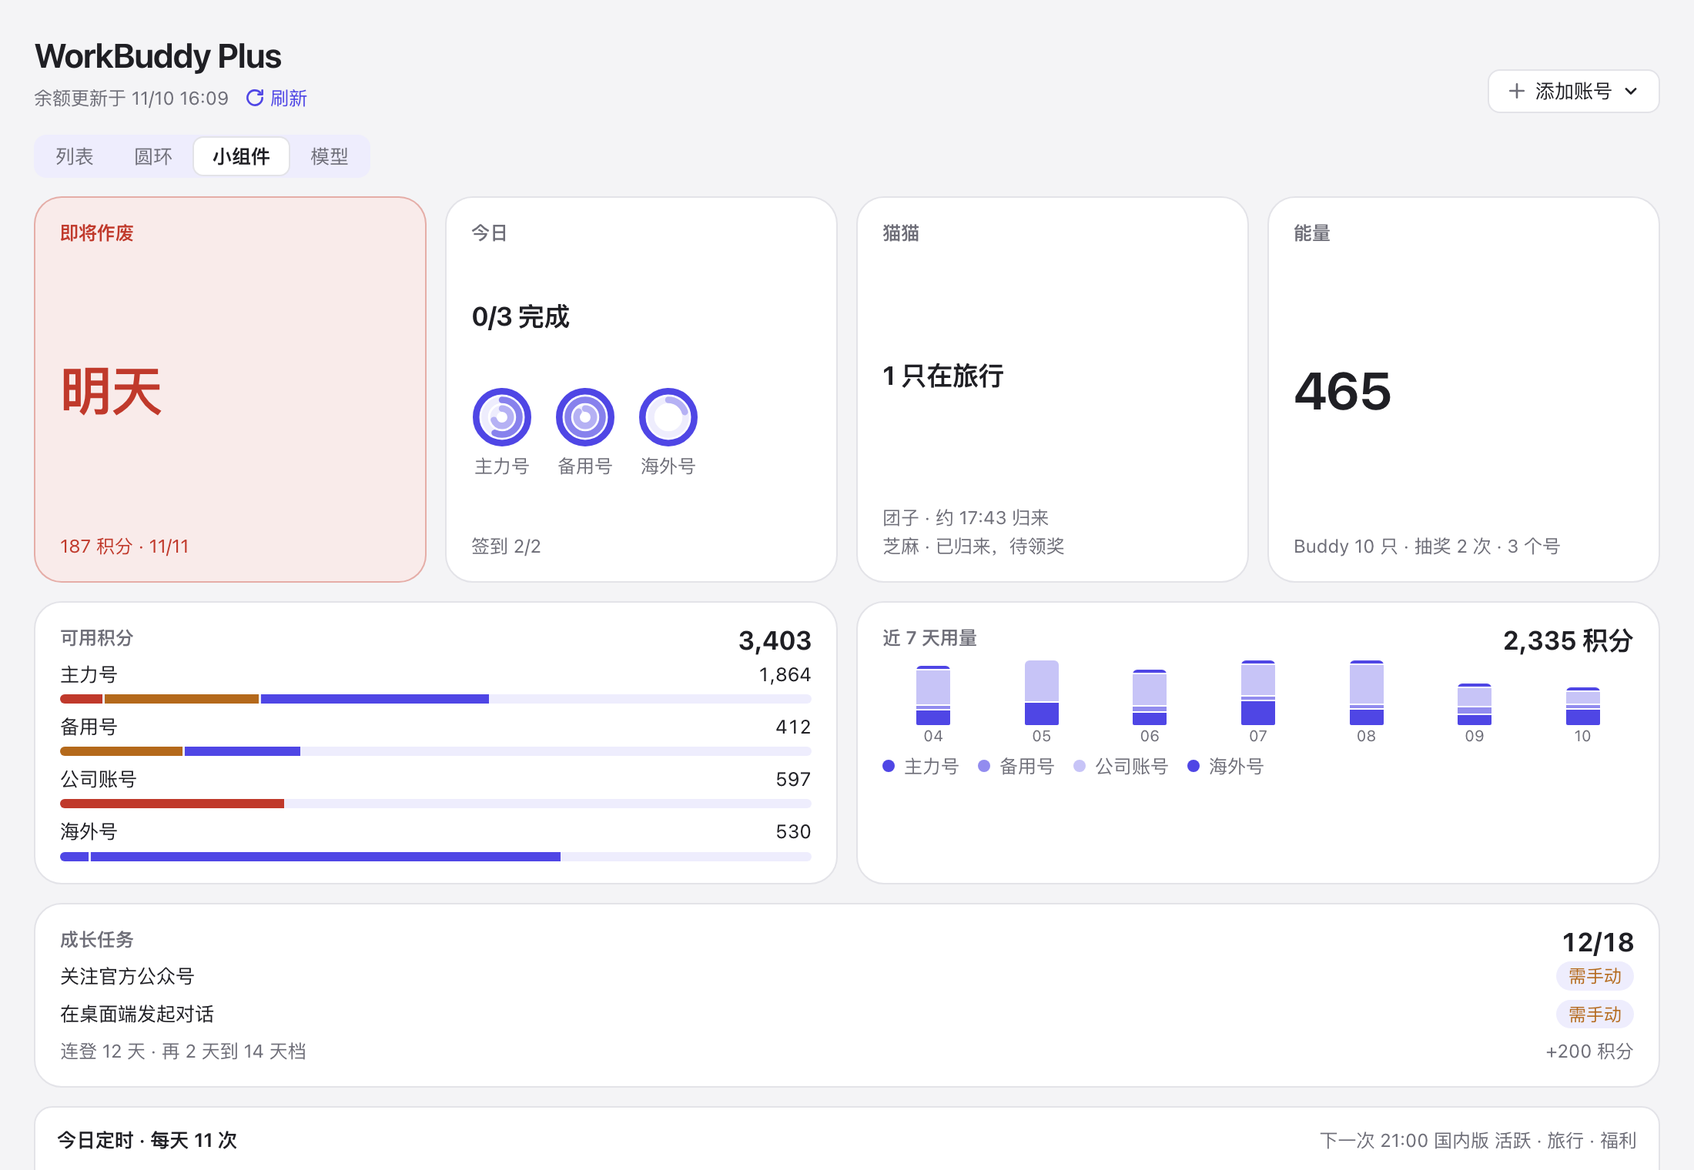
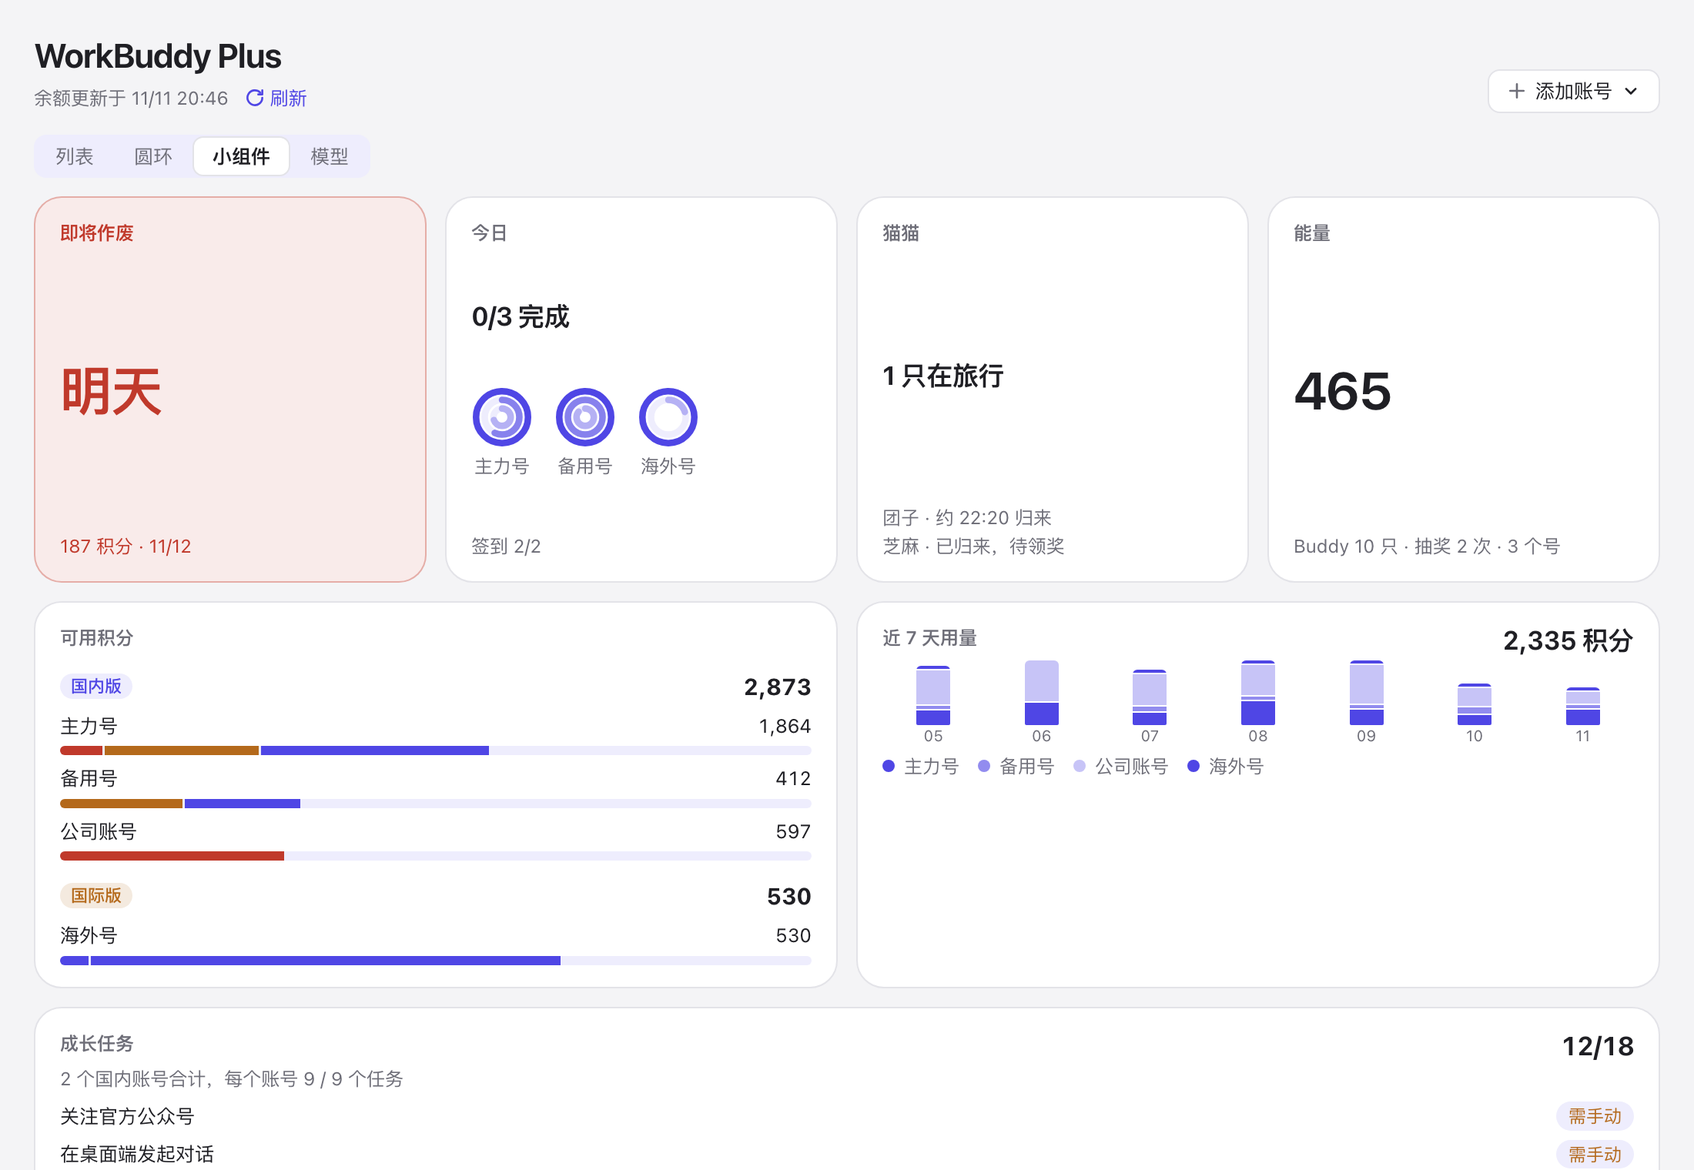
Show China and WorkBuddy AI apart with a sort, list new tasks again, mark each build's next slot, release v0.6.0

diff --git a/page/board.js b/page/board.js
@@ -24,6 +24,13 @@
   const parts = { balance: "积分", usage: "用量", travel: "猫猫旅行", streak: "连登", tasks: "成长任务", growth: "能量与 Buddy", checkin: "签到" };
   const expanded = new Set();
   const saved = { get() { try { return localStorage.getItem("wb-view"); } catch { return null; } }, set(v) { try { localStorage.setItem("wb-view", v); } catch {} } };
+  // Which build's accounts come first; chosen on the list, kept for the other views too.
+  const orderSaved = { get() { try { return localStorage.getItem("wb-order"); } catch { return null; } }, set(v) { try { localStorage.setItem("wb-order", v); } catch {} } };
+  let order = orderSaved.get() === "intl" ? "intl" : "cn", both = false;
+  const abroad = a => a.realm === "intl";
+  const ordered = list => [...list].sort((a, b) => (abroad(a) === (order === "intl") ? 0 : 1) - (abroad(b) === (order === "intl") ? 0 : 1));
+  // A small tag for the build, shown only when the board holds both.
+  const realmTag = (a, text) => el("span", abroad(a) ? "wb-realm intl" : "wb-realm", text || (abroad(a) ? "国际" : "国内"));
   const views = [["list", "列表"], ["rings", "圆环"], ["widgets", "小组件"], ["models", "模型"]];
   let seeded = false, mode = views.some(([k]) => k === saved.get()) ? saved.get() : "list", focus = "all", last = null, switched = false;
 
@@ -172,12 +179,14 @@
       const intl = name === "国际版", on = intl ? view.intlEnabled !== false : view.enabled !== false;
       if (groups.length > 1 || hooks.onSchedule) box.append(line(el("span", "wb-sched-realm", name), hooks.onSchedule ? scheduleSwitch(name, intl, on) : el("span", "wb-sub", on ? "" : "定时已暂停")));
       const row = el("div", on ? "wb-slots" : "wb-slots wb-paused");
+      // Each build marks its own next slot; the header's line names the soonest of both.
+      const mine = list.find(s => s.status === "upcoming" && !s.paused);
       for (const s of list) {
         let [label, cls] = slotStates[s.status] || [s.status, ""];
         // A paused build's slots wait without running.
         if (s.paused && ["pending", "upcoming"].includes(s.status)) [label, cls] = ["已暂停", ""];
         if (s.status === "failed" && s.attempts) label = `失败 ${s.attempts}/3`;
-        const isNext = next && next.at === s.at && next.kind === s.kind, chip = el("div", isNext ? "wb-slot next" : "wb-slot");
+        const isNext = s === mine, chip = el("div", isNext ? "wb-slot next" : "wb-slot");
         // The moment it runs today, set ±spread minutes around its set time.
         if (s.runAt && s.runAt !== s.at) chip.title = `设定 ${s.at}，今天 ${s.runAt} 执行`;
         chip.append(line(el("strong", undefined, s.runAt || s.at), el("span", `wb-pill ${cls}`, isNext ? "下一次" : label)), el("span", "wb-sub", kinds[s.kind] || s.kind));
@@ -284,21 +293,27 @@
     return group;
   }
 
+  // One summary card per build: their credits are separate wallets, and
+  // WorkBuddy AI has other things to watch (no trips, no tasks to do), so
+  // each says what its own accounts need. The first card follows the sort.
   function kpis(rows, now) {
-    const personal = rows.filter(a => !a.enterprise), credit = rows.reduce((s, a) => s + (a.usage?.credit || 0), 0);
-    // WorkBuddy AI's tasks count use of its client, nothing to do here: left out of the totals.
-    const china = personal.filter(a => a.realm !== "intl");
-    const claimed = china.reduce((s, a) => s + (a.tasks?.claimed || 0), 0), total = china.reduce((s, a) => s + (a.tasks?.total || 0), 0), pending = china.reduce((s, a) => s + (a.tasks?.credit || 0), 0);
-    const done = personal.filter(a => closed(today(a, now))).length;
     const strip = el("div", "wb-kpis");
-    for (const [k, v, sub] of [
-      ["可用积分", num(rows.reduce((s, a) => s + (a.balance?.balance || 0), 0)), `${rows.length} 个账号`],
-      ["近 7 天消耗", num(credit), `日均 ${num(credit / 7)}`],
-      ["成长任务", total ? `${claimed}/${total}` : "—", pending ? `待拿 ${num(pending)} 积分` : "全部已领奖"],
-      ["今日", !personal.length ? "—" : done === personal.length ? "全部完成" : `${done}/${personal.length} 完成`, "活跃 · 旅行 · 任务"]
-    ]) {
-      const t = el("div", "wb-kpi");
-      t.append(el("span", "wb-sub", k), el("strong", undefined, v), el("span", "wb-sub", sub));
+    const groups = [["cn", rows.filter(a => !abroad(a))], ["intl", rows.filter(abroad)]].filter(([, list]) => list.length);
+    if (order === "intl") groups.reverse();
+    strip.className = `wb-kpis wb-kpis-${groups.length}`;
+    for (const [kind, list] of groups) {
+      const personal = list.filter(a => !a.enterprise), credit = list.reduce((s, a) => s + (a.usage?.credit || 0), 0), facts = [`近 7 天 ${num(credit)} · 日均 ${num(credit / 7)}`];
+      if (kind === "cn") {
+        const claimed = personal.reduce((s, a) => s + (a.tasks?.claimed || 0), 0), total = personal.reduce((s, a) => s + (a.tasks?.total || 0), 0), pending = personal.reduce((s, a) => s + (a.tasks?.credit || 0), 0);
+        const done = personal.filter(a => closed(today(a, now))).length;
+        facts.push([total && `成长 ${claimed}/${total}${pending ? ` · 待拿 ${num(pending)}` : ""}`, personal.length && (done === personal.length ? "今日全部完成" : `今日 ${done}/${personal.length} 完成`)].filter(Boolean).join(" · ") || "没有个人账号");
+      } else {
+        const got = personal.filter(a => earned(a, now).tone === "ok").length;
+        facts.push(`每日奖励 ${personal.length === 1 ? earned(personal[0], now).label : `${got}/${personal.length} 今日到账`}`);
+      }
+      const t = el("div", "wb-kpi"), head = el("span", "wb-sub");
+      head.append(realmTag(list[0], kind === "intl" ? "国际版" : "国内版"), ` ${list.length} 个账号`);
+      t.append(head, el("strong", undefined, num(list.reduce((s, a) => s + (a.balance?.balance || 0), 0))), ...facts.map(f => el("span", "wb-sub", f)));
       strip.append(t);
     }
     return strip;
@@ -425,7 +440,9 @@
     else panel.setAttribute("aria-hidden", "true");
 
     const who = el("span", "wb-who");
-    who.append(el("strong", undefined, a.name), el("span", "wb-sub", a.enterprise ? `企业${a.balance?.size ? ` · 每月 ${num(a.balance.size)} 积分` : ""}` : `${a.realm === "intl" ? "国际版" : "个人"}${a.streak ? ` · 连登 ${a.streak.days} 天` : ""}${checked(a) ? ` · ${checked(a).label}` : ""}${a.intlOff ? " · 自动任务已关闭" : ""}`));
+    const name = el("strong", undefined, a.name);
+    if (both) name.append(realmTag(a));
+    who.append(name, el("span", "wb-sub", a.enterprise ? `企业${a.balance?.size ? ` · 每月 ${num(a.balance.size)} 积分` : ""}` : `${a.realm === "intl" && !both ? "国际版" : "个人"}${a.streak ? ` · 连登 ${a.streak.days} 天` : ""}${checked(a) ? ` · ${checked(a).label}` : ""}${a.intlOff ? " · 自动任务已关闭" : ""}`));
     const money = el("span", "wb-money");
     if (a.balance?.size) { const n = line(el("strong", undefined, num(a.balance.balance)), el("span", "wb-sub", `/ ${num(a.balance.size)}`)); n.className = "wb-line wb-amount"; money.append(n, meter(a.balance, now)); }
     else money.append(el("span", "wb-sub", a.errors.balance ? "积分读取失败" : a.enterprise ? "没有企业额度" : "没有积分包"));
@@ -453,7 +470,10 @@
     head.append(el("span"), el("span", undefined, "账号"), el("span", undefined, "积分 · 按作废先后"), el("span", undefined, "今日 · 7 天"), el("span"));
     list.append(head);
     for (const a of rows) list.append(account(a, now));
-    box.append(kpis(rows, now), list, el("p", "wb-legend", "圆环由外到内：今日活跃、猫猫旅行、成长任务。积分条：红 = 2 天内作废，橙 = 10 天内，浅色 = 长期有效。"), ...(extra ? [extra] : []), alerts(attention(rows, now)));
+    // Only when there are two builds to put in order.
+    const sorter = both ? el("div", "wb-listbar") : null;
+    if (sorter) sorter.append(el("span", "wb-sub", "排序"), segs([["cn", "国内在前"], ["intl", "国际在前"]], order, v => { order = v; orderSaved.set(v); again(); }, "账号排序"));
+    box.append(kpis(rows, now), ...(sorter ? [sorter] : []), list, el("p", "wb-legend", "圆环由外到内：今日活跃、猫猫旅行、成长任务。积分条：红 = 2 天内作废，橙 = 10 天内，浅色 = 长期有效。"), ...(extra ? [extra] : []), alerts(attention(rows, now)));
     return box;
   }
 
@@ -491,7 +511,9 @@
         const card = el("button", "wb-ringcard"), r = today(a, now);
         card.type = "button";
         const done = r ? goals(r).filter(v => v >= 1).length : 0, all = r ? goals(r).length : 0;
-        card.append(r ? rings(r, true) : el("div", "wb-ring-none", "企业账号"), el("strong", undefined, a.name),
+        const title = el("strong", undefined, a.name);
+        if (both) title.append(realmTag(a));
+        card.append(r ? rings(r, true) : el("div", "wb-ring-none", "企业账号"), title,
           el("span", "wb-sub", a.balance?.size ? `${num(a.balance.balance)} 积分${a.enterprise ? ` / 每月 ${num(a.balance.size)}` : ""}` : a.enterprise ? "没有企业额度" : "没有积分包"),
           el("span", "wb-sub", r ? (done === all ? "今日全部完成" : `今日完成 ${done}/${all}`) : `近 7 天 ${num(a.usage?.credit)} 积分`));
         card.onclick = () => { focus = a.id; again(); };
@@ -562,8 +584,16 @@
     widget("s", "", "能量", el("strong", "wb-w-big", num(sum("energy"))), el("span", "wb-w-foot", `Buddy ${num(sum("buddies"))} 只 · 抽奖 ${num(sum("draws"))} 次${personal.length > 1 ? ` · ${personal.length} 个号` : ""}`));
 
     const credits = widget("m", "", "可用积分");
-    credits.append(el("strong", "wb-w-corner", num(rows.reduce((s, a) => s + (a.balance?.balance || 0), 0))));
+    // Two builds hold separate wallets: no one total, a subtotal over each build's accounts.
+    if (!both) credits.append(el("strong", "wb-w-corner", num(rows.reduce((s, a) => s + (a.balance?.balance || 0), 0))));
+    let heading = null;
     for (const a of rows) {
+      if (both && heading !== abroad(a)) {
+        heading = abroad(a);
+        const mine = rows.filter(x => abroad(x) === heading), sum = mine.reduce((s, x) => s + (x.balance?.balance || 0), 0), h = line(realmTag(a, heading ? "国际版" : "国内版"), el("strong", "wb-num", num(sum)));
+        h.className += " wb-w-realm";
+        credits.append(h);
+      }
       if (!a.balance?.size) { credits.append(el("div", "wb-sub", `${a.name}：${a.enterprise ? "没有企业额度" : "没有积分包"}`)); continue; }
       const row = el("div", "wb-w-acct");
       row.append(line(el("span", "wb-name", a.name), el("span", "wb-num", num(a.balance.balance))), meter(a.balance, now));
@@ -591,6 +621,7 @@
     const tasks = personal.filter(a => a.tasks && a.realm !== "intl"), claimed = tasks.reduce((s, a) => s + a.tasks.claimed, 0), all = tasks.reduce((s, a) => s + a.tasks.total, 0), pending = tasks.reduce((s, a) => s + a.tasks.credit, 0);
     const growth = widget("w", "", "成长任务");
     growth.append(el("strong", "wb-w-corner", all ? `${claimed}/${all}` : "—"));
+    if (tasks.length > 1) growth.append(el("div", "wb-sub", `${tasks.length} 个国内账号合计，每个账号 ${tasks.map(a => a.tasks.total).join(" / ")} 个任务`));
     const manual = new Map();
     for (const a of tasks) for (const t of a.tasks.open) if (t.state === "manual") manual.set(t.title, (manual.get(t.title) || 0) + 1);
     for (const [title, count] of manual) growth.append(line(el("span", "wb-name", title), el("span", "wb-pill warn", `需手动${count > 1 ? ` ×${count}` : ""}`)));
@@ -731,7 +762,8 @@
     if (options) hooks = options;
     last = [host, view];
     host.replaceChildren();
-    const rows = view?.accounts || [];
+    const rows = ordered(view?.accounts || []);
+    both = rows.some(abroad) && rows.some(a => !abroad(a));
     if (!rows.length) { host.append(el("p", "wb-sub", view?.at ? "没有国内账号。请先在 Magpie 登录 WorkBuddy 国内版。" : "正在读取余额与旅行状态…")); return; }
     if (!seeded) { seeded = true; const first = rows.find(a => !a.enterprise) || rows[0]; expanded.add(first.id); }
     const bar = el("div", "wb-viewbar");

diff --git a/page/board.css b/page/board.css
@@ -205,6 +205,7 @@
   .wb-b-top{grid-template-columns:1fr}
   .wb-widgets{grid-template-columns:repeat(2,minmax(0,1fr))}.wb-w-m{grid-column:1/-1}
   .wb-kpis{grid-template-columns:repeat(2,minmax(0,1fr))}
+  .wb-kpis.wb-kpis-2{grid-template-columns:1fr}
   .wb-row{grid-template-columns:30px minmax(0,1fr) 94px 14px}.wb-row .wb-money{grid-column:2/4;grid-row:2}
   .wb-list-head{display:none}
   .wb-detail-grid{grid-template-columns:1fr;padding-left:14px}
@@ -231,3 +232,12 @@
 .wb-pick-free{color:var(--wb-accent);background:var(--wb-soft);padding:1px 7px;border-radius:999px}
 .wb-pick-menu hr{border:0;border-top:1px solid var(--wb-line);margin:4px 6px}
 @media (prefers-reduced-motion:reduce){.wb-pick-chev{transition:none}.wb-pick-menu{animation:none}}
+
+/* One summary card per build, and a small tag where the build is not obvious. */
+.wb-kpis.wb-kpis-2{grid-template-columns:repeat(2,minmax(0,1fr))}.wb-kpis.wb-kpis-1{grid-template-columns:minmax(0,1fr)}
+.wb-kpi>.wb-sub:first-child{display:flex;align-items:center;gap:6px}
+.wb-realm{display:inline-flex;align-items:center;font-size:11px;font-weight:500;line-height:1.5;padding:0 7px;border-radius:999px;background:var(--wb-soft);color:var(--wb-accent);white-space:nowrap;vertical-align:1px}
+.wb-realm.intl{background:color-mix(in srgb,var(--wb-warn) 14%,transparent);color:var(--wb-warn)}
+.wb-who strong .wb-realm,.wb-ringcard strong .wb-realm{margin-left:6px}
+.wb-listbar{display:flex;justify-content:flex-end;align-items:center;gap:8px;margin:-4px 0 8px}
+.wb-w-realm{margin-top:6px}.wb-w-realm .wb-num{font-size:15px}

diff --git a/README.en.md b/README.en.md
@@ -123,9 +123,9 @@ Keep it running and start the schedules in the panel. Starting it at boot is up 
 - Model queues (「排队中」): when a model is short of capacity, WorkBuddy queues requests and answers HTTP 429 too (code 6020, with the queue position and estimated wait), **enterprise accounts included**, however much allowance they have. Tools like Magpie retry a few times and then report `exceeded retry limit, last status: 429`. The check above records the position and when the wait should be over, shows it in the account's detail and the same yellow box, and drops it once that time passes; a queued model is checked again at most hourly.
 - An account's 「成长」 (energy, Buddies, the next streak tier and open tasks) starts folded; click 「任务 x/y ▾」 to open it.
 - A package is counted grant by grant: every reward in 「国内运营裂变包」, for one, is its own grant with its own 20 days, so only the grants about to lapse turn red and count as lapsing, never the whole package.
-- List (「列表」): totals and one row per account (credit bar coloured by each grant's own lapse date, today's rings, a 7-day trend); open a row for packages, usage, tasks and travel.
+- List (「列表」): a summary card each for China and WorkBuddy AI on top (their credits are separate wallets, never added together; WorkBuddy AI's says whether today's daily reward has landed), a 「国内」/「国际」 tag on every account when both are present, and a 「国内在前」/「国际在前」 (China first / WorkBuddy AI first) switch at the right, remembered and followed by the rings and widgets; below it one row per account (credit bar coloured by each grant's own lapse date, today's rings, a 7-day trend); open a row for packages, usage, tasks and travel.
 - Rings (「圆环」): one account at a time with today's rings (activity, travel, tasks), a credit lapse timeline and usage.
-- Widgets (「小组件」): one fact per tile across all accounts: next lapse, today, Buddies, energy, credits, 7-day usage, growth tasks.
+- Widgets (「小组件」): one fact per tile across all accounts: next lapse, today, Buddies, energy, credits (a subtotal each for China and WorkBuddy AI), 7-day usage, growth tasks.
 - Models (「模型」): switch between China (「国内版」) and WorkBuddy AI (「国际版」); with an enterprise account added, an 「企业」 tab comes first with the models that account may use (set by its enterprise, not the personal list), and without one it isn't shown. Models the current plan can use come first; WorkBuddy AI's Pro-only models are dimmed below. Each row has the model id (click to copy), reasoning levels, context and multiplier. Reasoning levels are each model's native ones from WorkBuddy's config (such as `low high max`), the default in bold, 「可关」 when thinking can be switched off, 「固定」 when there is only one, 「—」 when none are listed; multipliers of 3 or more are orange, and limited-time free, night discounts and subscriber priority follow WorkBuddy's own labels. WorkBuddy AI needs a `workbuddy-ai` sign-in in Magpie.
 - At the bottom, today's schedule (「今日定时」) shows each slot's result and the next run; below it, the alerts: spent models in a yellow box (「模型额度用完」); a login about to expire, a failed read and credit lapsing within 2 days in a red one (「需要你处理」); everything else (credit lapsing within 10 days, enterprise allowance resets, check-in notes) in a plain list (「其他提醒」), folded until opened.
 - Each personal account shows today's daily check-in: for China, Magpie's record (checked in +100, not yet, needs the WorkBuddy client…), with a switched-off or missed check-in in the alerts; for WorkBuddy AI, this plugin's own result, or 「暂无签到活动」 (no campaign) while none runs. Enterprise accounts have no daily check-in credits and show none. WorkBuddy AI accounts are tagged 「国际版」 in the list.

diff --git a/README.md b/README.md
@@ -121,9 +121,9 @@ bun server.mjs
 - 「模型排队」：模型算力不够时，官方会让请求排队，同样回 HTTP 429（code 6020，带排队位置和预计等待时间），**企业账号也一样**，额度再多也会被挡住。Magpie 等工具遇到这种情况会重试几次后报 `exceeded retry limit, last status: 429`。上面的探测遇到排队时会记下位置和预计排到的时间，显示在账号详情和同一个黄色框里（「排队中」），到预计时间后自动消失；排队的模型每小时最多再查一次。
 - 账号详情里的「成长」（能量、Buddy、连登档位和未完成的任务）默认收起，点「任务 x/y ▾」展开。
 - 同名积分包按每一笔的作废时间计算：例如「国内运营裂变包」每次奖励都是单独一笔，各有 20 天期限，只有快到期的那几笔会标红、计入「将作废」，不会把整包都算成今天作废。
-- 「列表」：汇总和每个账号一行（积分条按每笔积分各自的作废时间着色、今日圆环、7 天走势），点开看积分包、用量、任务和旅行详情。
+- 「列表」：顶上国内版、国际版各一张汇总卡（两边的积分是各自的钱包，不加在一起；国际版那张写每日奖励今日到没到），两边都有账号时每个账号带「国内」「国际」小标签，右上角可选「国内在前」或「国际在前」（会记住，圆环和小组件也跟着排）；下面是每个账号一行（积分条按每笔积分各自的作废时间着色、今日圆环、7 天走势），点开看积分包、用量、任务和旅行详情。
 - 「圆环」：一次看一个账号的今日圆环（活跃、旅行、任务）、积分作废时间线和用量。
-- 「小组件」：按一件事一块汇总所有账号：即将作废、今日、猫猫、能量、可用积分、近 7 天用量、成长任务。
+- 「小组件」：按一件事一块汇总所有账号：即将作废、今日、猫猫、能量、可用积分（国内、国际各一个小计）、近 7 天用量、成长任务。
 - 「模型」：切换国内版 / 国际版；添加了企业账号时最前面多一个「企业」，列出企业账号自己能用的模型（由企业配置决定，和个人账号不同），没有企业账号就不显示。先列当前计划能用的模型，再把国际版 Pro-only 模型变灰收在下面；每行有模型 ID（点一下复制）、推理档位、上下文和倍率。推理档位是官方配置里每个模型的原生档位（如 `low high max`），加粗的是默认档，「可关」表示可以关闭思考，「固定」表示只有一档，「—」表示官方没有列出；倍率 3 以上标橙色，限时免费、夜间折扣和订阅优先按官方标注。国际版需要在 Magpie 登录 WorkBuddy AI（`workbuddy-ai`）。
 - 底部「今日定时」列出每个时段的结果和下一次执行；下面是提醒：模型额度用完的放在黄色框「模型额度用完」里；登录将过期、读取失败、2 天内作废的积分放在红色框「需要你处理」里；其他（10 天内作废的积分、企业额度重置、签到提醒）是普通的「其他提醒」列表，默认收起。
 - 每个个人账号显示当天的每日签到结果：国内版读 Magpie 的记录（已签到 +100、未签到、需在客户端签到等），签到未开启或没签上时列入提醒；国际版显示本插件的签到结果，没有签到活动时显示「暂无签到活动」。企业账号没有每日签到积分，不显示。国际版账号在列表里标「国际版」。
